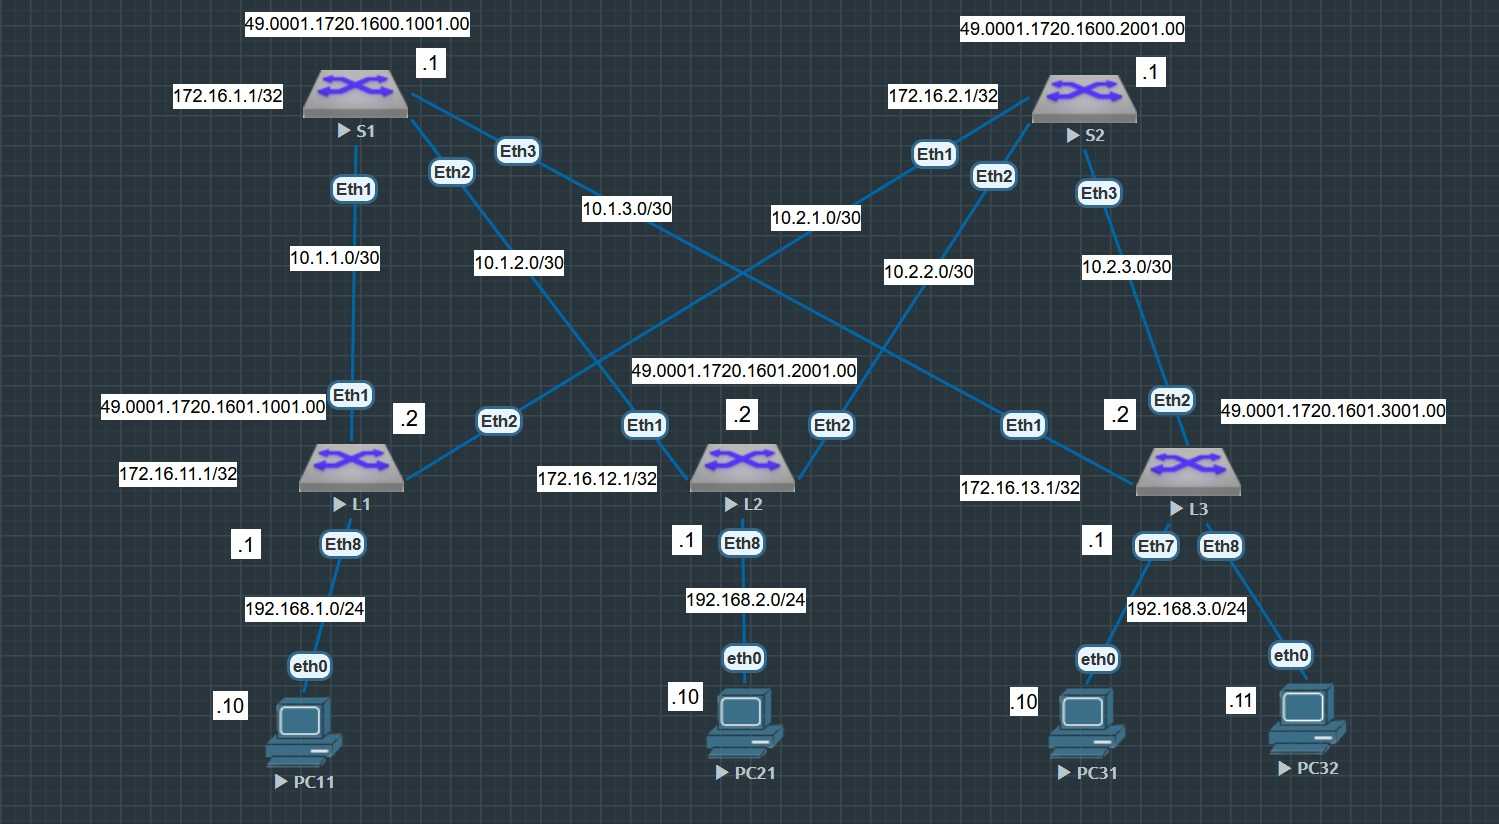
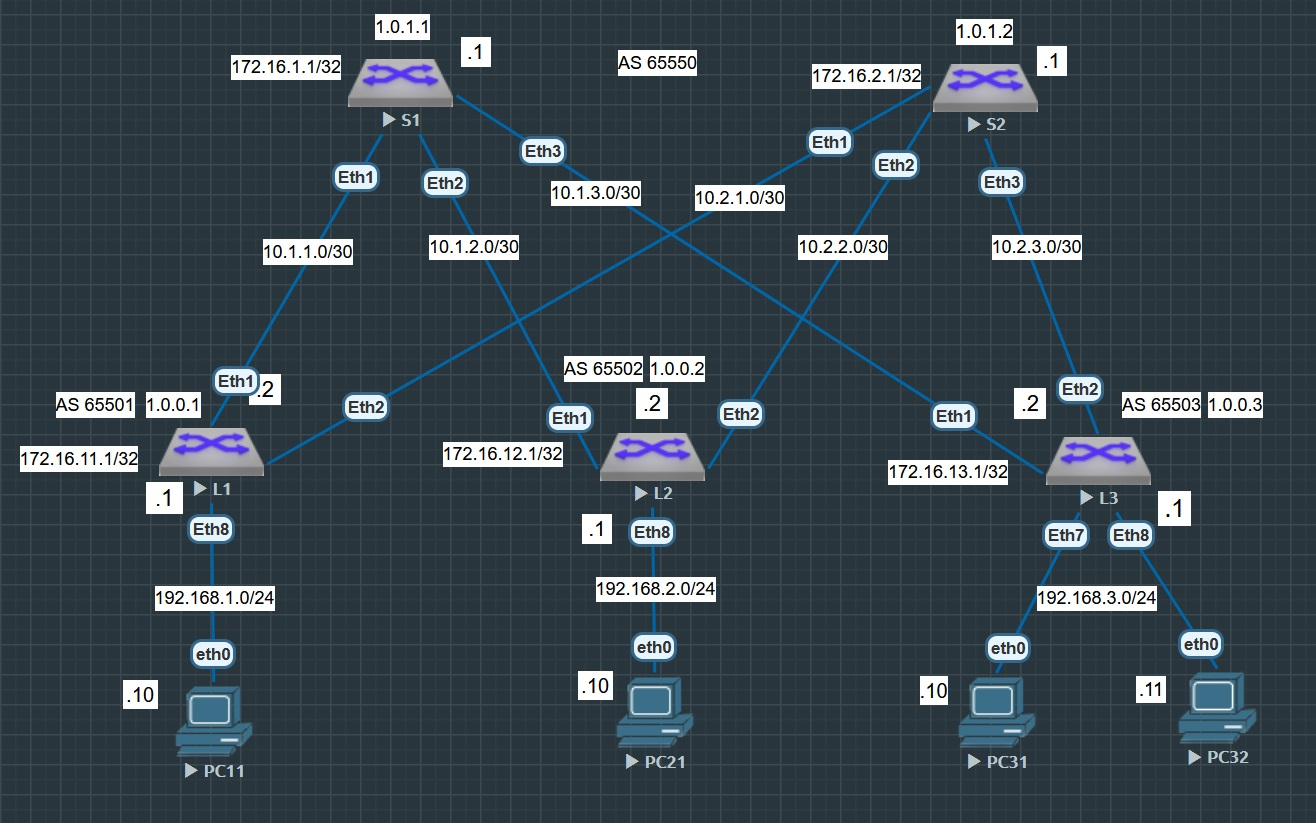
281225

diff --git a/README.md b/README.md
@@ -108,13 +108,97 @@ Spine устройств, обеспечивающих связность ниж
 **S1**
 
 ```
-
+hostname S1
+!
+interface Ethernet1
+   description <leaf L1>
+   mtu 9214
+   no switchport
+   ip address 10.1.1.1/30
+!
+interface Ethernet2
+   description <leaf L2>
+   mtu 9214
+   no switchport
+   ip address 10.1.2.1/30
+!
+interface Ethernet3
+   description <leaf L3>
+   mtu 9214
+   no switchport
+   ip address 10.1.3.1/30
+!
+interface Loopback0
+   ip address 172.16.1.1/32
+!
+ip routing
+!
+peer-filter LEAFS_ASN
+   10 match as-range 65501-65503 result accept
+!
+router bgp 65550
+   router-id 1.0.1.1
+   no bgp default ipv4-unicast
+   timers bgp 1 3
+   distance bgp 20 200 200
+   bgp listen range 10.0.0.0/8 peer-group LEAF peer-filter LEAFS_ASN
+   neighbor LEAF peer group
+   neighbor LEAF out-delay 0
+   neighbor LEAF bfd
+   !
+   address-family ipv4
+      neighbor LEAF activate
+      network 172.16.1.1/32
+!
+end
 ```
 
 **S2**
 
 ```
-
+hostname S2
+!
+interface Ethernet1
+   description <leaf L1>
+   mtu 9214
+   no switchport
+   ip address 10.2.1.1/30
+!
+interface Ethernet2
+   description <leaf L2>
+   mtu 9214
+   no switchport
+   ip address 10.2.2.1/30
+!
+interface Ethernet3
+   description <leaf L3>
+   mtu 9214
+   no switchport
+   ip address 10.2.3.1/30
+!
+interface Loopback0
+   ip address 172.16.2.1/32
+!
+ip routing
+!
+peer-filter LEAFS_ASN
+   10 match as-range 65501-65503 result accept
+!
+router bgp 65550
+   router-id 1.0.1.2
+   no bgp default ipv4-unicast
+   timers bgp 1 3
+   distance bgp 20 200 200
+   bgp listen range 10.0.0.0/8 peer-group LEAF peer-filter LEAFS_ASN
+   neighbor LEAF peer group
+   neighbor LEAF out-delay 0
+   neighbor LEAF bfd
+   !
+   address-family ipv4
+      neighbor LEAF activate
+      network 172.16.2.1/32
+!
+end
 ```
 
 #### Leaf устройства
@@ -122,19 +206,159 @@ Spine устройств, обеспечивающих связность ниж
 **L1**
 
 ```
-
+hostname L1
+!
+interface Ethernet1
+   description <spine S1>
+   mtu 9214
+   no switchport
+   ip address 10.1.1.2/30
+!
+interface Ethernet2
+   description <spine S2>
+   mtu 9214
+   no switchport
+   ip address 10.2.1.2/30
+!
+interface Ethernet8
+   description <PC11>
+   mtu 9214
+   no switchport
+   ip address 192.168.1.1/24
+!
+interface Loopback0
+   ip address 172.16.11.1/32
+!
+ip routing
+!
+router bgp 65501
+   router-id 1.0.0.1
+   no bgp default ipv4-unicast
+   timers bgp 1 3
+   distance bgp 20 200 200
+   maximum-paths 2 ecmp 2
+   neighbor SPINE peer group
+   neighbor SPINE remote-as 65550
+   neighbor SPINE out-delay 0
+   neighbor SPINE bfd
+   neighbor 10.1.1.1 peer group SPINE
+   neighbor 10.2.1.1 peer group SPINE
+   !
+   address-family ipv4
+      neighbor SPINE activate
+      network 172.16.11.1/32
+      network 192.168.1.0/24
+!
+end
 ```
 
 **L2**
 
 ```
-
+hostname L2
+!
+interface Ethernet1
+   description <spine S1>
+   mtu 9214
+   no switchport
+   ip address 10.1.2.2/30
+!
+interface Ethernet2
+   description <spine S2>
+   mtu 9214
+   no switchport
+   ip address 10.2.2.2/30
+!
+interface Ethernet8
+   description <PC21>
+   mtu 9214
+   no switchport
+   ip address 192.168.2.1/24
+!
+interface Loopback0
+   ip address 172.16.12.1/32
+!
+ip routing
+!
+router bgp 65502
+   router-id 1.0.0.2
+   no bgp default ipv4-unicast
+   timers bgp 1 3
+   distance bgp 20 200 200
+   maximum-paths 2 ecmp 2
+   neighbor SPINE peer group
+   neighbor SPINE remote-as 65550
+   neighbor SPINE out-delay 0
+   neighbor SPINE bfd
+   neighbor 10.1.2.1 peer group SPINE
+   neighbor 10.2.2.1 peer group SPINE
+   !
+   address-family ipv4
+      neighbor SPINE activate
+      network 172.16.12.1/32
+      network 192.168.2.0/24
+!
+end
 ```
 
 **L3**
 
 ```
-
+hostname L3
+!
+vlan 3
+   name users
+!
+interface Ethernet1
+   description <spine S1>
+   mtu 9214
+   no switchport
+   ip address 10.1.3.2/30
+!
+interface Ethernet2
+   description <spine S2>
+   mtu 9214
+   no switchport
+   ip address 10.2.3.2/30
+!
+interface Ethernet7
+   description <PC31>
+   mtu 9214
+   switchport access vlan 3
+!
+interface Ethernet8
+   description <PC32>
+   mtu 9214
+   switchport access vlan 3
+!
+interface Loopback0
+   ip address 172.16.13.1/32
+!
+interface Vlan3
+   description <User`s VLAN>
+   ip address 192.168.3.1/24
+!
+ip routing
+!
+router bgp 65503
+   router-id 1.0.0.3
+   no bgp default ipv4-unicast
+   timers bgp 1 3
+   distance bgp 20 200 200
+   maximum-paths 2 ecmp 2
+   neighbor SPINE peer group
+   neighbor SPINE remote-as 65550
+   neighbor SPINE out-delay 0
+   neighbor SPINE bfd
+   neighbor 10.1.3.1 peer group SPINE
+   neighbor 10.2.3.1 peer group SPINE
+   !
+   address-family ipv4
+      neighbor SPINE activate
+      network 172.16.13.1/32
+      network 192.168.3.0/24
+!
+end
 ```
 
 ## Описание типовых настроек
@@ -169,6 +393,8 @@ Spine устройств, обеспечивающих связность ниж
 
 ![S1](images/bgp_L1.jpg)
 
+![S1](images/bgp_as_L1.jpg)
+
 **Таблица соседства eBGP на коммутаторе L1**
 
 ![S1](images/neighbor_L1.jpg)
@@ -177,6 +403,9 @@ Spine устройств, обеспечивающих связность ниж
 
 ![S1](images/bgp_L2.jpg)
 
+![S1](images/bgp_as_L2.jpg)
+
+
 **Таблица соседства eBGP на коммутаторе L2**
 
 ![S1](images/neighbor_L2.jpg)
@@ -184,6 +413,9 @@ Spine устройств, обеспечивающих связность ниж
 **Таблица маршрутизации eBGP на коммутаторе L3**
 
 ![S1](images/bgp_L3.jpg)
+
+![S1](images/bgp_as_L3.jpg)
+
 
 **Таблица соседства eBGP на коммутаторе L3**
 
